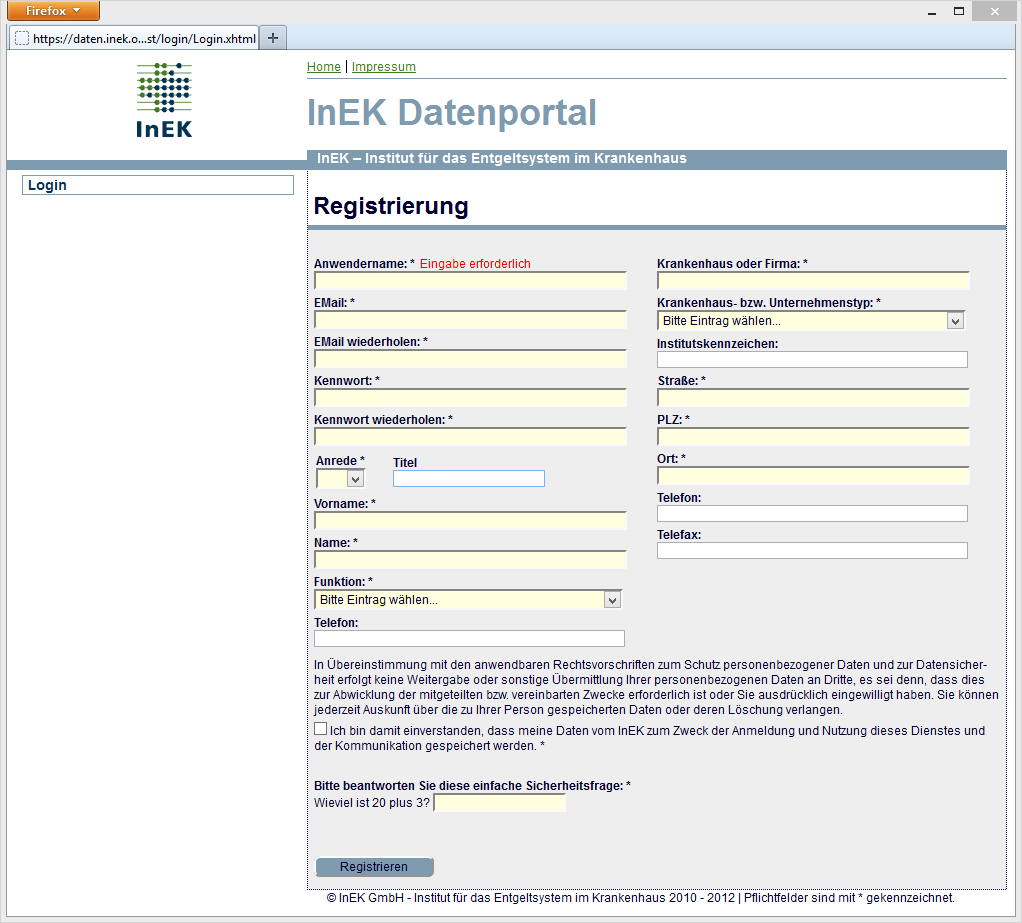
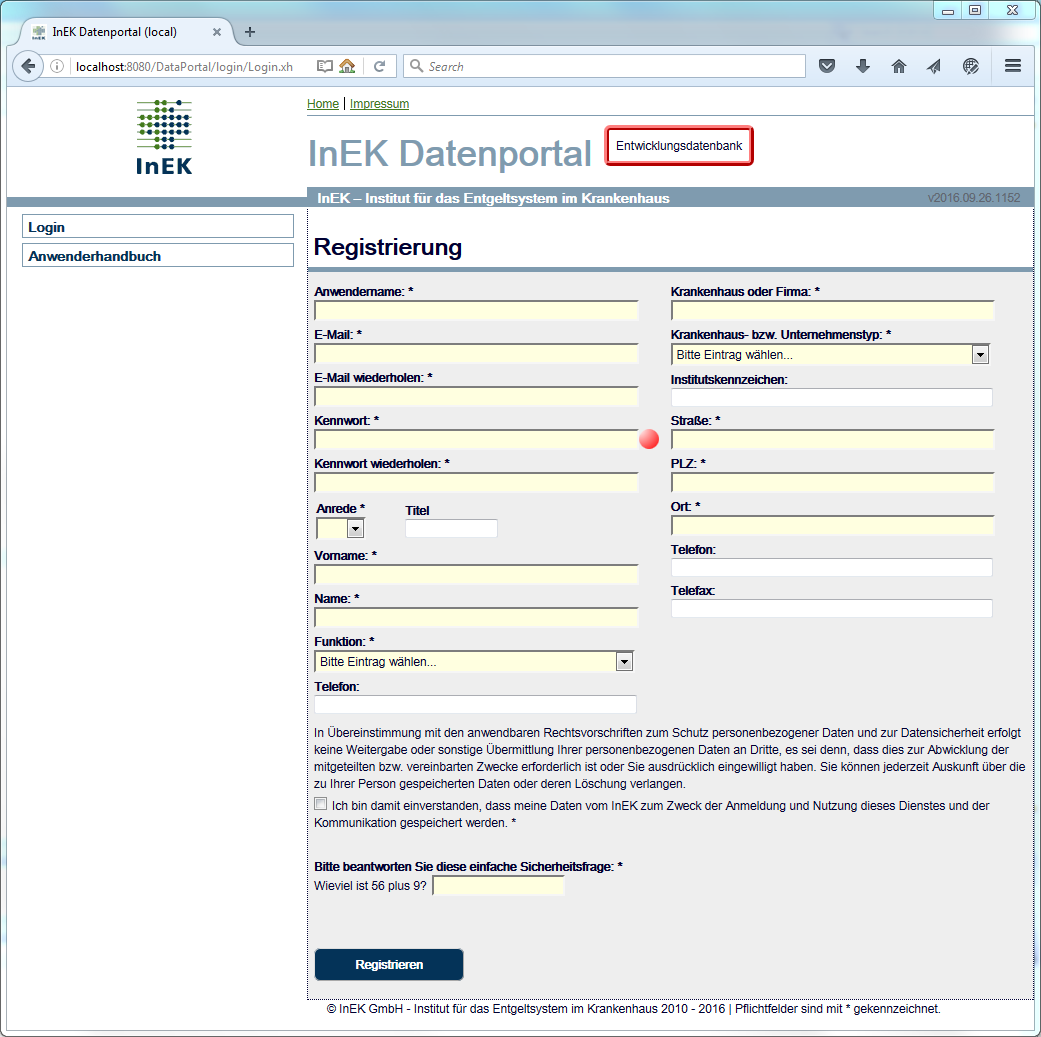
secure password

Changed region(s): [[0.0, 0.0, 1.0, 1.0], [0.0, 0.8191, 0.0303, 0.8494]]

diff --git a/DataPortal/src/main/webapp/resources/css/dataportal.css b/DataPortal/src/main/webapp/resources/css/dataportal.css
@@ -1248,7 +1248,7 @@ th {
 }
 
 .circleYellow {
-    background: radial-gradient(circle at top left, white 0%, yellow 100%);
+    background: radial-gradient(circle at top left, white 0%, gold 100%);
 }
 
 .circleGreen {

diff --git a/DataPortal/src/main/java/org/inek/dataportal/facades/account/AccountPwdFacade.java b/DataPortal/src/main/java/org/inek/dataportal/facades/account/AccountPwdFacade.java
@@ -3,7 +3,8 @@ package org.inek.dataportal.facades.account;
 import java.util.UUID;
 import javax.ejb.Stateless;
 import org.inek.dataportal.entities.account.AccountPwd;
-import org.inek.dataportal.facades.AbstractFacade;
+import org.inek.dataportal.entities.account.WeakPassword;
+import org.inek.dataportal.facades.AbstractDataAccess;
 import org.inek.dataportal.utils.Crypt;
 
 /**
@@ -11,14 +12,14 @@ import org.inek.dataportal.utils.Crypt;
  * @author muellermi
  */
 @Stateless
-public class AccountPwdFacade extends AbstractFacade<AccountPwd> {
+public class AccountPwdFacade extends AbstractDataAccess {
 
-    public AccountPwdFacade() {
-        super(AccountPwd.class);
+    public AccountPwd find(int accountId){
+        return find(AccountPwd.class, accountId);
     }
-
+    
     public Boolean changePassword(int accountId, String oldPwd, String newPwd) {
-        AccountPwd accountPwd = find(accountId);
+        AccountPwd accountPwd = find(AccountPwd.class, accountId);
         if (accountPwd != null && isCorrectPassword(accountId, oldPwd)) {
             accountPwd.setPasswordHash(Crypt.getPasswordHash(newPwd, accountId));
             merge(accountPwd);
@@ -28,7 +29,7 @@ public class AccountPwdFacade extends AbstractFacade<AccountPwd> {
     }
 
     public boolean isCorrectPassword(int accountId, final String password) {
-        AccountPwd accountPwd = findFresh(accountId);
+        AccountPwd accountPwd = findFresh(AccountPwd.class, accountId);
         if (accountPwd.getSalt().isEmpty()) {
             // old format. todo: remove once most users have their password stored in new format. Apx. mid 2017
             return checkAndUpdatedOldPasswordFormat(accountPwd, password, accountId);
@@ -51,4 +52,7 @@ public class AccountPwdFacade extends AbstractFacade<AccountPwd> {
         persist(accountPwd);
     }
 
+    public boolean isWeakPassword(String password){
+        return find(WeakPassword.class, password) != null;
+    }
 }

diff --git a/DataPortal/src/main/java/org/inek/dataportal/entities/account/WeakPassword.java b/DataPortal/src/main/java/org/inek/dataportal/entities/account/WeakPassword.java
@@ -1,0 +1,60 @@
+package org.inek.dataportal.entities.account;
+
+import java.io.Serializable;
+import java.util.Objects;
+import javax.persistence.*;
+
+@Entity
+@Table(name = "WeakPassword")
+public class WeakPassword implements Serializable {
+    private static final long serialVersionUID = 1L;
+
+    // <editor-fold defaultstate="collapsed" desc="Property Passord">
+    @Id
+    @Column(name = "wpPassword")
+    private String _password;
+    
+    public String getPassword() {
+        return _password;
+    }
+
+    public void setPassword(String id) {
+        _password = id;
+    }
+    // </editor-fold>
+    
+
+    // <editor-fold defaultstate="collapsed" desc="hashCode / equals / toString">
+    @Override
+    public int hashCode() {
+        int hash = 5;
+        hash = 47 * hash + Objects.hashCode(this._password);
+        return hash;
+    }
+
+    @Override
+    public boolean equals(Object obj) {
+        if (this == obj) {
+            return true;
+        }
+        if (obj == null) {
+            return false;
+        }
+        if (getClass() != obj.getClass()) {
+            return false;
+        }
+        final WeakPassword other = (WeakPassword) obj;
+        if (!Objects.equals(this._password, other._password)) {
+            return false;
+        }
+        return true;
+    }
+    
+    @Override
+    public String toString() {
+        return "WeakPassword{" + "_password=" + _password + '}';
+    }
+    // </editor-fold>
+
+  
+}

diff --git a/DataPortal/src/main/java/org/inek/dataportal/utils/SecurePassword.java b/DataPortal/src/main/java/org/inek/dataportal/utils/SecurePassword.java
@@ -8,8 +8,10 @@ package org.inek.dataportal.utils;
 import javax.enterprise.context.RequestScoped;
 import javax.faces.component.UIInput;
 import javax.faces.event.AjaxBehaviorEvent;
+import javax.inject.Inject;
 import javax.inject.Named;
 import org.inek.dataportal.enums.Quality;
+import org.inek.dataportal.facades.account.AccountPwdFacade;
 
 /**
  *
@@ -67,15 +69,16 @@ public class SecurePassword {
         return Quality.Poor;
     }
     
+    @Inject AccountPwdFacade _pwdFacade;
     Quality _quality = Quality.Poor;
     public void checkPasswordQuality(AjaxBehaviorEvent event) {
         UIInput pw = (UIInput) event.getComponent();
-        _quality = determinePasswordQuality(pw.getValue().toString());
+        String test = pw.getValue().toString();
+        _quality = _pwdFacade.isWeakPassword(test) ? Quality.Poor : determinePasswordQuality(test);
     }
 
     public Quality getQuality() {
         return _quality;
     }
-
     
 }

diff --git a/DataPortal/src/main/java/org/inek/dataportal/facades/NubRequestFacade.java b/DataPortal/src/main/java/org/inek/dataportal/facades/NubRequestFacade.java
@@ -4,7 +4,6 @@
  */
 package org.inek.dataportal.facades;
 
-import java.lang.annotation.Annotation;
 import java.util.ArrayList;
 import java.util.Calendar;
 import java.util.Collections;
@@ -16,11 +15,7 @@ import java.util.Map;
 import java.util.Set;
 import java.util.concurrent.ConcurrentHashMap;
 import java.util.concurrent.locks.ReentrantLock;
-import java.util.concurrent.locks.ReentrantReadWriteLock;
-import java.util.concurrent.locks.ReentrantReadWriteLock.WriteLock;
 import java.util.stream.Collectors;
-import javax.ejb.Lock;
-import javax.ejb.LockType;
 import javax.ejb.Schedule;
 import javax.enterprise.context.ApplicationScoped;
 import javax.persistence.Query;
